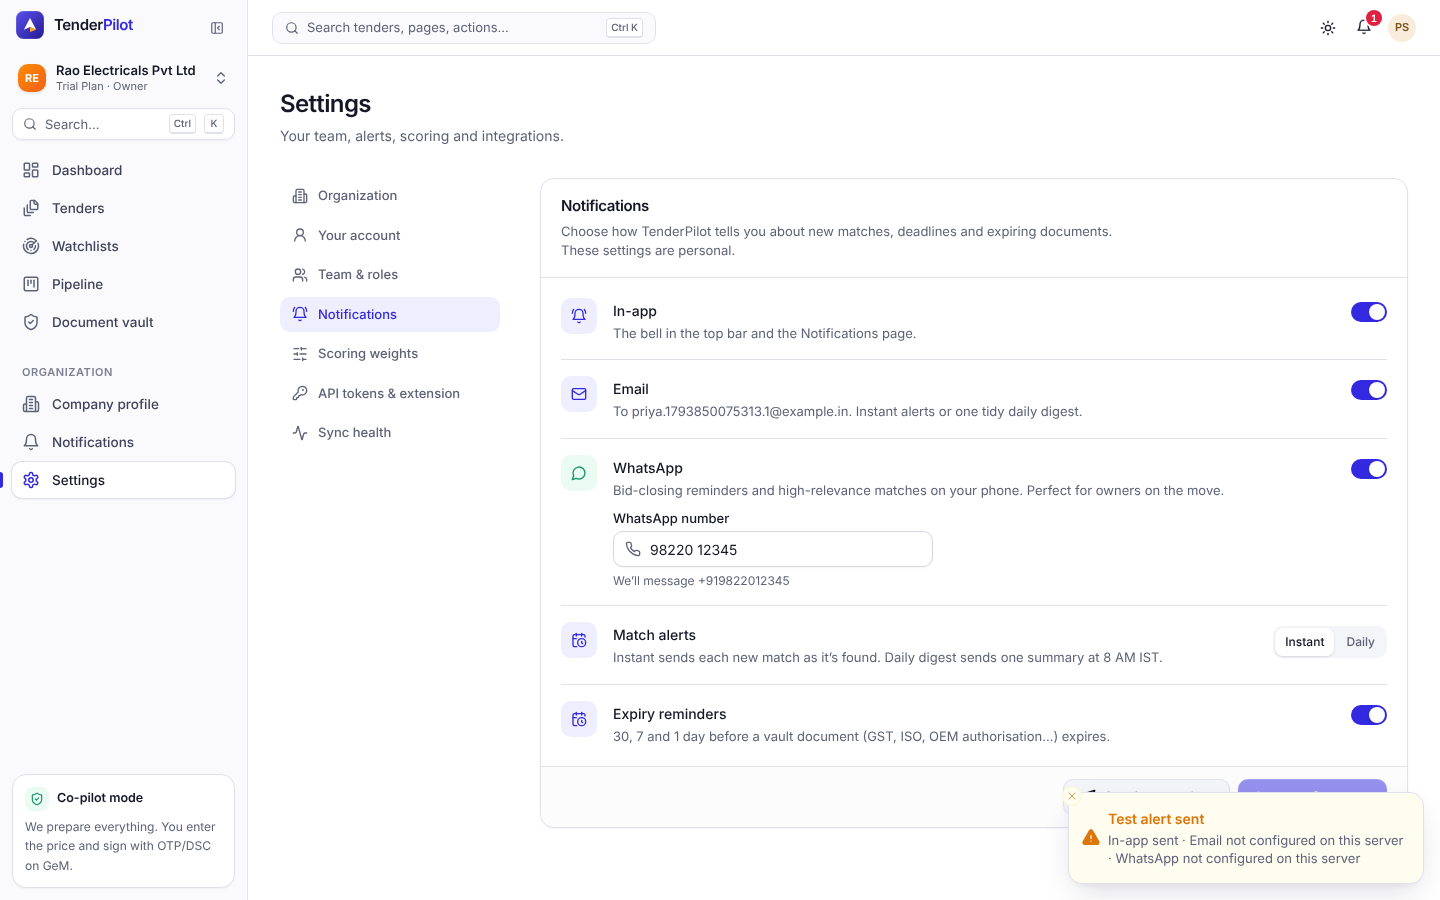
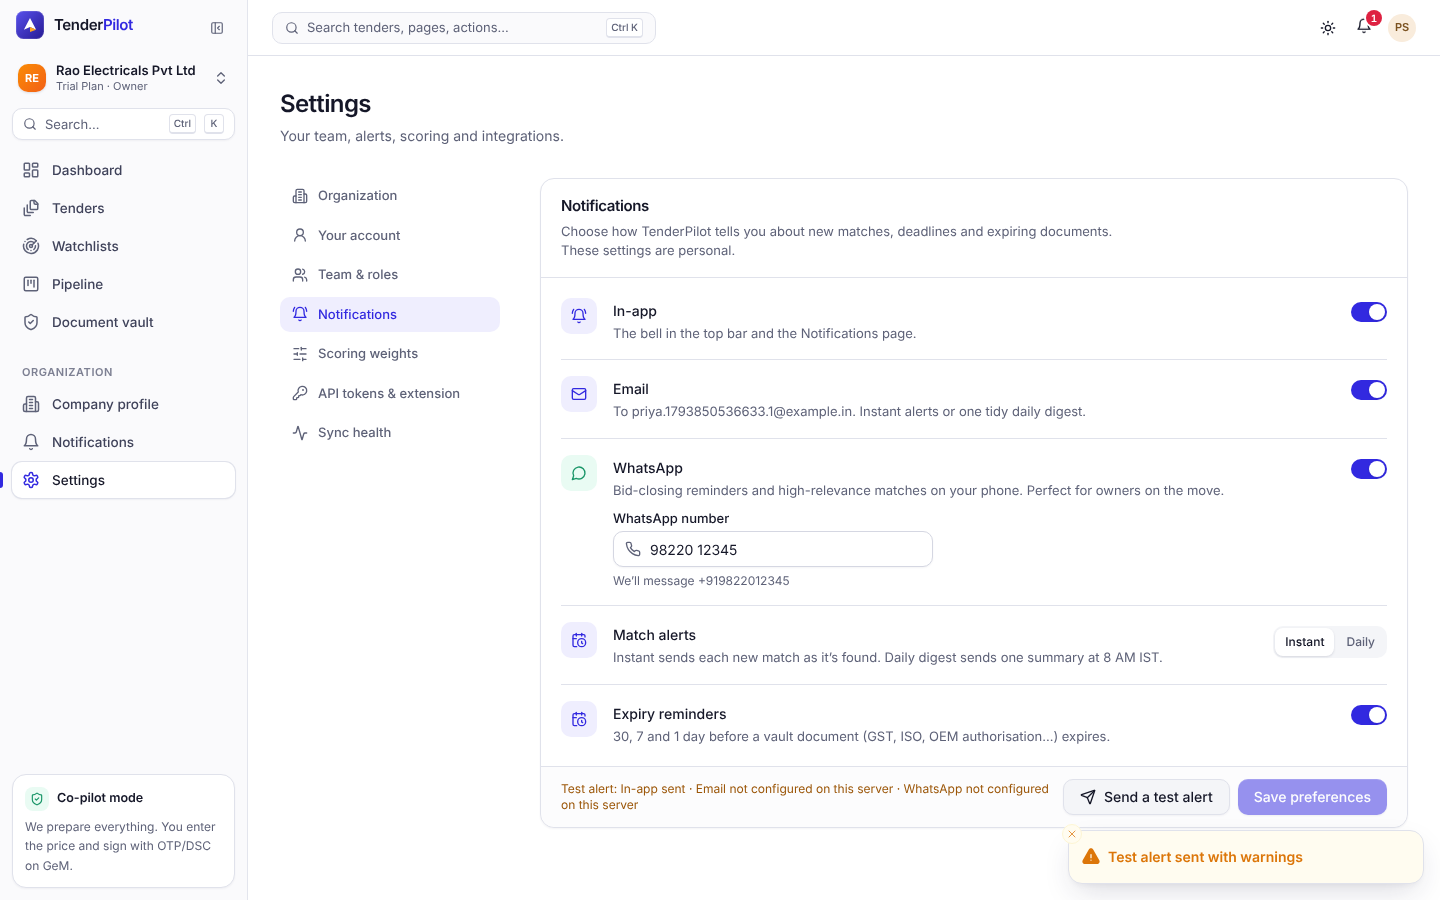
[002/US4] Review fixes: always-on in-app test row, inline result, org-scoped test
- POST /me/notifications/test always creates the in-app "Test alert from TenderPilot" row
  (spec 002 US4 sc8, T066); `inApp` is always `sent`. Email/WhatsApp stay gated on prefs.
  Docstring and TestAlertResult type updated. The rate limit stays first, since every allowed
  call now does work (the in-app row).
- New API test: a two-org user gets the active org's channels (B defaults -> whatsapp off;
  A WhatsApp on -> attempted after the 1/min window).
- Notifications section: per-channel result is an inline aria-live status line in the footer
  (left of the buttons on desktop, above them on phones); the toast is one short line.
  The shared Toaster gets a mobileOffset so phone toasts sit above the fixed tab bar.
- useSendTestAlert invalidates notificationKeys.all.
- plan.md: the endpoint is session-only (S) with 403 for API tokens.
- Re-captured dev-test-alert-toast-{desktop,mobile}.png.

Work-Item: Shashank2577/GEMs#6
Requirement: 002/FR-031, 002/FR-032, 002/FR-034
Agent-Role: developer
Harness: claude-code
Claude-Session: https://claude.ai/code/session_01BUi6mFdfjz9y1F3zKYmWQB

Changed region(s): [[0.75, 0.8711, 0.9688, 0.9644], [0.375, 0.8711, 0.7188, 0.9022], [0.5, 0.4356, 0.75, 0.4667]]

diff --git a/apps/api/test/prefs.test.ts b/apps/api/test/prefs.test.ts
@@ -129,19 +129,21 @@ describe('002/FR-034 POST /me/notifications/test', () => {
     expect((await request(ctx.app, 'POST', '/api/me/notifications/test', { cookie: u.cookie })).status).toBe(200);
   });
 
-  it('attempts only enabled channels: WhatsApp on with a phone → attempted; in-app/email off → nothing', async () => {
+  it('always creates the in-app row; email/WhatsApp only when enabled (in-app/email off, WhatsApp on)', async () => {
     const u = await signup(ctx.app);
     await request(ctx.app, 'PATCH', '/api/me', { cookie: u.cookie, json: { phone: '+919822012345' } });
     await request(ctx.app, 'PUT', '/api/me/notification-prefs', { cookie: u.cookie, json: { ...DEFAULTS, inApp: false, email: false, whatsapp: true } });
     const mail = ctx.mailer.sent.length;
     const wa = ctx.whatsapp.sent.length;
     const r = await request(ctx.app, 'POST', '/api/me/notifications/test', { cookie: u.cookie });
-    expect(r.body).toEqual({ inApp: 'off', email: 'off', whatsapp: 'skipped' });
+    expect(r.body).toEqual({ inApp: 'sent', email: 'off', whatsapp: 'skipped' });
     expect(ctx.mailer.sent.length).toBe(mail);
     expect(ctx.whatsapp.sent.length).toBe(wa + 1);
     expect(ctx.whatsapp.sent.at(-1)!.to).toBe('+919822012345');
     const rows = await testRows(u.me.user.id);
-    expect(rows.map((x) => [x.channel, x.status])).toEqual([['whatsapp', 'skipped']]);
+    expect(rows.map((x) => [x.channel, x.status]).sort()).toEqual([['in_app', 'sent'], ['whatsapp', 'skipped']]);
+    const list = await request(ctx.app, 'GET', '/api/notifications', { cookie: u.cookie });
+    expect(list.body.items[0]).toMatchObject({ title: 'Test alert from TenderPilot' });
   });
 
   it('WhatsApp on but the mobile was cleared later → skipped without calling the provider', async () => {
@@ -175,6 +177,31 @@ describe('002/FR-034 POST /me/notifications/test', () => {
     } finally {
       ctx.deps.mailer = original;
     }
+  });
+
+  it('uses the preferences of the active org (two-org user)', async () => {
+    const u = await twoOrgUser();
+    await request(ctx.app, 'PATCH', '/api/me', { cookie: u.cookie, json: { phone: '+919822012345' } });
+    await u.use(u.orgA);
+    expect((await request(ctx.app, 'PUT', '/api/me/notification-prefs', { cookie: u.cookie, json: { ...DEFAULTS, whatsapp: true } })).status).toBe(200);
+
+    await u.use(u.orgB); // org B keeps the defaults
+    const wa = ctx.whatsapp.sent.length;
+    const inB = await request(ctx.app, 'POST', '/api/me/notifications/test', { cookie: u.cookie });
+    expect(inB.body).toEqual({ inApp: 'sent', email: 'skipped', whatsapp: 'off' });
+    expect(ctx.whatsapp.sent.length).toBe(wa);
+
+    ctx.clock.advance(61_000);
+    await u.use(u.orgA);
+    const inA = await request(ctx.app, 'POST', '/api/me/notifications/test', { cookie: u.cookie });
+    expect(inA.status).toBe(200);
+    expect(inA.body).toEqual({ inApp: 'sent', email: 'skipped', whatsapp: 'skipped' });
+    expect(ctx.whatsapp.sent.length).toBe(wa + 1);
+    expect(ctx.whatsapp.sent.at(-1)!.to).toBe('+919822012345');
+
+    const rows = await testRows(u.userId);
+    expect(rows.filter((x) => x.orgId === u.orgB).map((x) => x.channel).sort()).toEqual(['email', 'in_app']);
+    expect(rows.filter((x) => x.orgId === u.orgA).map((x) => x.channel).sort()).toEqual(['email', 'in_app', 'whatsapp']);
   });
 
   it('requires a signed-in web session', async () => {

diff --git a/apps/web/src/features/settings/sections/NotificationsSection.tsx b/apps/web/src/features/settings/sections/NotificationsSection.tsx
@@ -5,6 +5,7 @@ import { toE164IndianMobile } from '@tp/core/vault/validators';
 import { Button, ErrorState, Field, Input, Segmented, SkeletonList, Switch, toast } from '@/components/ui';
 import { ApiError, errorMessage } from '@/lib/api';
 import { useAuth } from '@/lib/auth';
+import { cn } from '@/lib/utils';
 import { usePrefs, useSavePrefs, useSendTestAlert, useUpdateMe } from '../api';
 import { testAlertToast } from '../notification-copy';
 import { displayMobile } from './AccountSection';
@@ -29,6 +30,7 @@ export default function NotificationsSection() {
   const save = useSavePrefs();
   const updateMe = useUpdateMe();
   const testAlert = useSendTestAlert();
+  const [testStatus, setTestStatus] = useState<{ kind: 'success' | 'warning' | 'error'; text: string } | null>(null);
   const [p, setP] = useState<NotificationPrefs | null>(null);
   const [phone, setPhone] = useState(displayMobile(me?.user.phone));
   const [phoneErr, setPhoneErr] = useState<string | null>(null);
@@ -57,13 +59,18 @@ export default function NotificationsSection() {
   const sendTest = () => {
     if (dirty) { toast.info('Save your changes first', { description: 'The test alert uses your saved preferences.' }); return; }
     testAlert.mutate(undefined, {
+      // Per-channel detail goes in the inline status line in the footer (left of / above the buttons) (a toast would cover the buttons
+      // and the mobile tab bar); the toast itself stays one short line.
       onSuccess: (r) => {
         const t = testAlertToast(r, !!me?.user.phone);
-        toast[t.kind](t.title, { description: t.lines.join(' · ') });
+        setTestStatus({ kind: t.kind, text: t.lines.join(' · ') });
+        toast[t.kind](t.title);
       },
       onError: (e) => {
         const retry = e instanceof ApiError && e.status === 429 ? Number((e.details as { retryAfter?: number } | undefined)?.retryAfter) : NaN;
-        toast.error(Number.isFinite(retry) ? `You can send one test alert a minute. Try again in ${retry} s.` : errorMessage(e));
+        const msg = Number.isFinite(retry) ? `You can send one test alert a minute. Try again in ${retry} s.` : errorMessage(e);
+        setTestStatus({ kind: 'error', text: msg });
+        toast.error(msg);
       },
     });
   };
@@ -71,6 +78,10 @@ export default function NotificationsSection() {
   return (
     <Panel title="Notifications" description="Choose how TenderPilot tells you about new matches, deadlines and expiring documents. These settings are personal."
       footer={<>
+        <p role="status" aria-live="polite" className={cn('basis-full text-xs empty:hidden sm:basis-0 sm:flex-1',
+          testStatus?.kind === 'error' ? 'text-danger' : testStatus?.kind === 'warning' ? 'text-[hsl(32_90%_32%)] dark:text-warning' : 'text-muted-foreground')}>
+          {testStatus && <>Test alert: {testStatus.text}</>}
+        </p>
         <Button variant="secondary" onClick={sendTest} loading={testAlert.isPending}><Send /> Send a test alert</Button>
         <Button onClick={submit} disabled={!dirty} loading={save.isPending || updateMe.isPending}>Save preferences</Button>
       </>}>

diff --git a/apps/web/src/features/settings/notification-copy.ts b/apps/web/src/features/settings/notification-copy.ts
@@ -11,9 +11,9 @@ export function whatsappStopsWarning(opts: { storedPhone: string | null | undefi
   return opts.whatsappOn && !!opts.storedPhone && !opts.draftPhone.trim() ? WHATSAPP_STOPS_WARNING : null;
 }
 
-const CHANNEL_LABEL = { inApp: 'In-app', email: 'Email', whatsapp: 'WhatsApp' } as const;
+const CHANNEL_LABEL = { email: 'Email', whatsapp: 'WhatsApp' } as const;
 
-function line(channel: keyof TestAlertResult, outcome: TestAlertOutcome, hasPhone: boolean): string {
+function line(channel: 'email' | 'whatsapp', outcome: TestAlertOutcome, hasPhone: boolean): string {
   const label = CHANNEL_LABEL[channel];
   switch (outcome) {
     case 'sent': return `${label} sent`;
@@ -24,14 +24,13 @@ function line(channel: keyof TestAlertResult, outcome: TestAlertOutcome, hasPhon
   }
 }
 
-/** Per-channel outcome toast for "Send a test alert" (T067). */
+/**
+ * "Send a test alert" outcome (T067). The in-app row is always created; `lines` is the per-channel result shown
+ * in the inline status line under the Notifications footer, `title` is the short toast.
+ */
 export function testAlertToast(result: TestAlertResult, hasPhone: boolean): { kind: 'success' | 'warning'; title: string; lines: string[] } {
-  const channels = ['inApp', 'email', 'whatsapp'] as const;
-  const lines = channels.map((ch) => line(ch, result[ch], hasPhone));
-  const anySent = channels.some((ch) => result[ch] === 'sent');
-  const anyProblem = channels.some((ch) => result[ch] === 'failed' || result[ch] === 'skipped');
-  if (!anySent) {
-    return { kind: 'warning', title: channels.every((ch) => result[ch] === 'off') ? 'All alert channels are off' : 'Test alert not delivered', lines };
-  }
-  return { kind: anyProblem ? 'warning' : 'success', title: 'Test alert sent', lines };
+  const external = ['email', 'whatsapp'] as const;
+  const lines = ['In-app sent', ...external.map((ch) => line(ch, result[ch], hasPhone))];
+  const problem = external.some((ch) => result[ch] === 'failed' || result[ch] === 'skipped');
+  return { kind: problem ? 'warning' : 'success', title: problem ? 'Test alert sent with warnings' : 'Test alert sent', lines };
 }

diff --git a/apps/web/src/features/settings/notification-copy.test.ts b/apps/web/src/features/settings/notification-copy.test.ts
@@ -15,9 +15,9 @@ describe('whatsappStopsWarning (002/FR-032, T065)', () => {
 });
 
 describe('testAlertToast (002/FR-034, T067)', () => {
-  it('lists the outcome per channel', () => {
+  it('lists the outcome per channel, in-app always first', () => {
     expect(testAlertToast({ inApp: 'sent', email: 'sent', whatsapp: 'skipped' }, true)).toEqual({
-      kind: 'warning', title: 'Test alert sent',
+      kind: 'warning', title: 'Test alert sent with warnings',
       lines: ['In-app sent', 'Email sent', 'WhatsApp not configured on this server'],
     });
     expect(testAlertToast({ inApp: 'sent', email: 'sent', whatsapp: 'off' }, false)).toEqual({
@@ -25,10 +25,11 @@ describe('testAlertToast (002/FR-034, T067)', () => {
     });
   });
   it('explains a missing mobile and provider failures', () => {
-    const t = testAlertToast({ inApp: 'off', email: 'failed', whatsapp: 'skipped' }, false);
-    expect(t).toEqual({ kind: 'warning', title: 'Test alert not delivered', lines: ['In-app is off', 'Email failed to send', 'WhatsApp needs a mobile number'] });
+    const t = testAlertToast({ inApp: 'sent', email: 'failed', whatsapp: 'skipped' }, false);
+    expect(t.kind).toBe('warning');
+    expect(t.lines).toEqual(['In-app sent', 'Email failed to send', 'WhatsApp needs a mobile number']);
   });
-  it('says so when every channel is off', () => {
-    expect(testAlertToast({ inApp: 'off', email: 'off', whatsapp: 'off' }, true).title).toBe('All alert channels are off');
+  it('is a plain success when email and WhatsApp are off', () => {
+    expect(testAlertToast({ inApp: 'sent', email: 'off', whatsapp: 'off' }, true)).toMatchObject({ kind: 'success', title: 'Test alert sent' });
   });
 });

diff --git a/apps/api/src/routes/notifications.ts b/apps/api/src/routes/notifications.ts
@@ -70,7 +70,9 @@ notificationsRoutes.post('/notifications/:id/read', requireAuth, async (c) => {
 
 /**
  * Send yourself a test alert (002/FR-034; NFR-007). At most 1 per user per minute (429 `rate_limited` +
- * Retry-After). Each channel is attempted only when switched on in the user's prefs for the active org; a
+ * Retry-After). The in-app row "Test alert from TenderPilot" is ALWAYS created (spec 002 US4 scenario 8), so
+ * `inApp` is always `sent` and every allowed call does work — hence the limit is taken first. Email and
+ * WhatsApp are attempted only when switched on in the user's prefs for the active org (`off` otherwise); a
  * channel that is not configured on this server (log adapter) or has no mobile number reports `skipped`.
  * Email/WhatsApp outcomes are also recorded as delivery rows linked to the in-app row (same dedupe key), so
  * the Notifications page shows them like any other alert. Rows are written in a final state, never `pending`,
@@ -109,11 +111,8 @@ notificationsRoutes.post('/me/notifications/test', requireSession, async (c) => 
     return outcome;
   };
 
-  const result: TestAlertResult = { inApp: 'off', email: 'off', whatsapp: 'off' };
-  if (prefs.inApp) {
-    await db.insert(notifications).values({ ...base, channel: 'in_app', status: 'sent', sentAt: now });
-    result.inApp = 'sent';
-  }
+  await db.insert(notifications).values({ ...base, channel: 'in_app', status: 'sent', sentAt: now });
+  const result: TestAlertResult = { inApp: 'sent', email: 'off', whatsapp: 'off' };
   result.email = await attempt('email', prefs.email, async () => {
     const r = await mailer.send({
       to: user.email,

diff --git a/packages/core/src/contracts/auth.ts b/packages/core/src/contracts/auth.ts
@@ -137,11 +137,12 @@ export const DEFAULT_NOTIFICATION_PREFS: NotificationPrefs = { inApp: true, emai
 
 /**
  * Outcome of `POST /me/notifications/test` per channel (002/FR-034):
- * `sent` delivered to the provider (in-app: row created), `skipped` channel not configured on this server or no
- * mobile number, `failed` provider error, `off` the channel is switched off in the user's preferences.
+ * `sent` delivered to the provider, `skipped` channel not configured on this server or no mobile number,
+ * `failed` provider error, `off` the channel is switched off in the user's preferences. The in-app row is always
+ * created, so `inApp` is always `sent`.
  */
 export type TestAlertOutcome = 'sent' | 'skipped' | 'failed' | 'off';
-export interface TestAlertResult { inApp: TestAlertOutcome; email: TestAlertOutcome; whatsapp: TestAlertOutcome }
+export interface TestAlertResult { inApp: 'sent'; email: TestAlertOutcome; whatsapp: TestAlertOutcome }
 export const TEST_ALERT_TITLE = 'Test alert from TenderPilot';
 
 // ───────────── API tokens ─────────────

diff --git a/apps/web/src/features/settings/api.ts b/apps/web/src/features/settings/api.ts
@@ -7,6 +7,7 @@ import type { ScoringWeights } from '@tp/core/contracts/analyse';
 import type { IngestionRunsResponse } from '@tp/core/contracts/identify';
 import { api, type Paged } from '@/lib/api';
 import { ME_KEY } from '@/lib/auth';
+import { notificationKeys } from '@/features/notifications/api';
 
 export const settingsKeys = {
   members: ['org', 'members'] as const,
@@ -88,7 +89,7 @@ export function useSendTestAlert() {
   const qc = useQueryClient();
   return useMutation({
     mutationFn: () => api.post<TestAlertResult>('/me/notifications/test'),
-    onSuccess: () => qc.invalidateQueries({ queryKey: ['notifications'] }),
+    onSuccess: () => qc.invalidateQueries({ queryKey: notificationKeys.all }),
   });
 }
 

diff --git a/apps/web/src/components/ui/toaster.tsx b/apps/web/src/components/ui/toaster.tsx
@@ -11,6 +11,8 @@ export function Toaster() {
       closeButton
       richColors
       offset={16}
+      // Phones (≤600px in sonner): sit above the fixed mobile tab bar (h-14 + safe area) instead of covering it.
+      mobileOffset={{ bottom: 'calc(72px + env(safe-area-inset-bottom, 0px))' }}
       toastOptions={{
         classNames: {
           toast: 'group !rounded-xl !border !border-border !shadow-lg !font-sans',

diff --git a/specs/001-gem-tender-copilot/contracts/api.md b/specs/001-gem-tender-copilot/contracts/api.md
@@ -22,7 +22,7 @@ Shared DTO zod schemas live in `packages/core/src/contracts/<area>.ts` (owned by
 | POST | /auth/accept-invite | `{token,name?,password?}` | `Me` |
 | PATCH | /me | `{name?,phone?}` | `Me` |
 | GET/PUT | /me/notification-prefs | `{inApp,email,whatsapp,frequency,expiryReminders}` | prefs |
-| POST | /me/notifications/test | – (session only; 1/min per user → 429 `rate_limited` + Retry-After) | `{inApp,email,whatsapp}` each `sent\|skipped\|failed\|off` (002/FR-034) |
+| POST | /me/notifications/test | – (session only; 1/min per user → 429 `rate_limited` + Retry-After) | `{inApp:'sent',email,whatsapp}`, email/whatsapp each `sent\|skipped\|failed\|off` (002/FR-034) |
 | GET/POST/DELETE | /me/api-tokens[/:id] | POST `{name}` | list / `{token}` shown once |
 | GET | /org/members | – | `[{userId,name,email,role,joinedAt}]` + pending invites |
 | POST (M) | /org/invitations | `{email,role}` | `{id, inviteUrl}` |

diff --git a/specs/002-platform-tenancy/plan.md b/specs/002-platform-tenancy/plan.md
@@ -165,7 +165,7 @@ Auth column: `—` public, `S` session cookie only, `A` any member (cookie or be
 | (gap) POST `/api/me/sessions/revoke-others` | S | – | 200 `{revoked:n}` | – |
 | (gap) DELETE `/api/org/members/me` | S | – | 200 `{ok, nextOrgId:string|null}` | 409 last_owner |
 | (gap) POST `/api/org/invitations/:id/resend` | M | – | 201 `CreatedInvitation` | 404 |
-| (gap) POST `/api/me/notifications/test` | A | – | 200 `{inApp:'sent', email:'sent'|'skipped'|'failed'|'off', whatsapp:…}` | 429 (1/min) |
+| (gap) POST `/api/me/notifications/test` | S | – | 200 `{inApp:'sent', email:'sent'|'skipped'|'failed'|'off', whatsapp:…}` (in-app row always created) | 403 (token); 429 (1/min) |
 
 ## Data model touch-points (`packages/db/src/schema.ts`)
 
